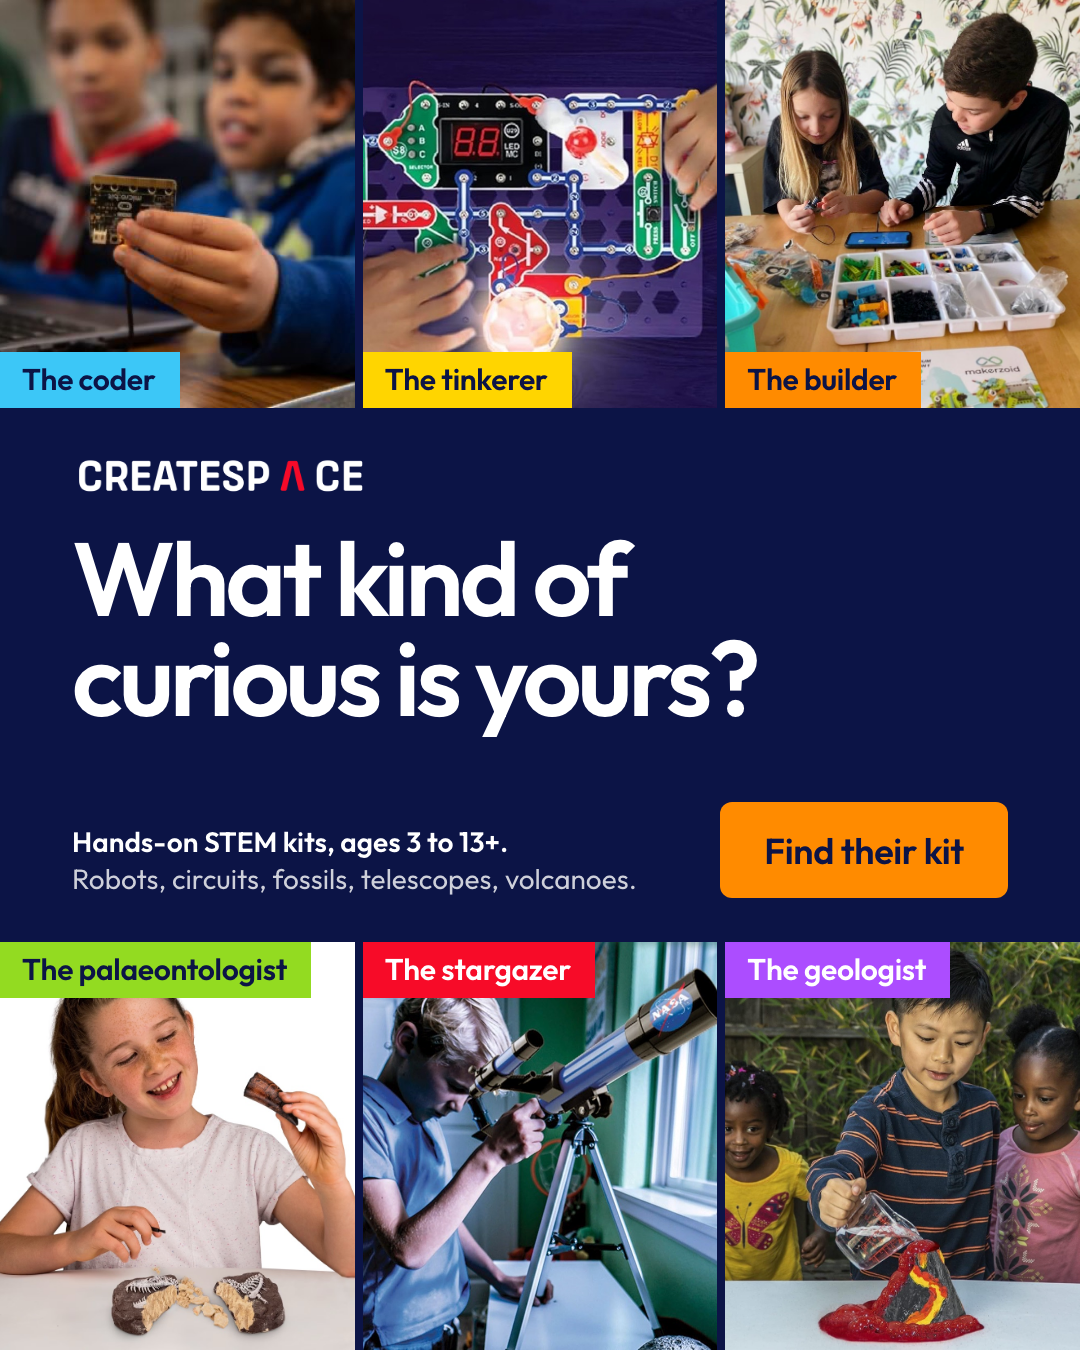
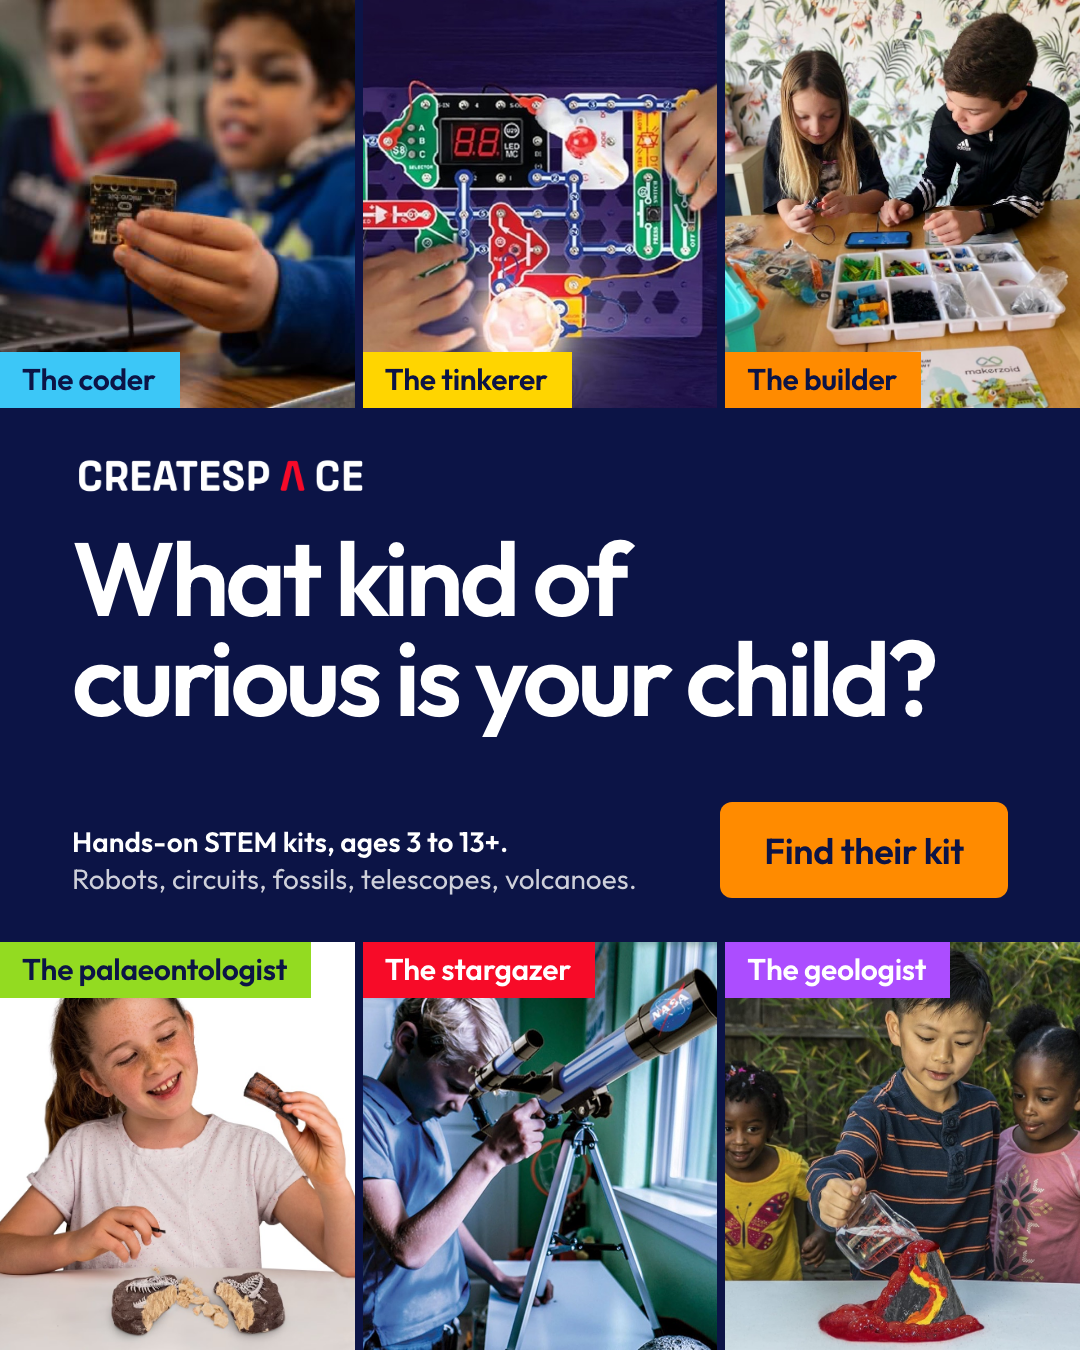
Ad B headline: "What kind of curious is your child?"
Names the child directly instead of "yours", so the question reads
clearly to a parent on first glance. Updates the brief and surface brief
to match and re-renders the export.

Changed region(s): [[0.6111, 0.4667, 0.8861, 0.5289]]

diff --git a/marketing/campaigns/2026-09-stem-range/feed-portrait-curious.html b/marketing/campaigns/2026-09-stem-range/feed-portrait-curious.html
@@ -52,7 +52,7 @@
 </style>
 </head>
 <body>
-<main class="canvas" aria-label="CREATESPACE: what kind of curious is yours?">
+<main class="canvas" aria-label="CREATESPACE: what kind of curious is your child?">
   <div class="strip strip--top">
     <div class="tile">
       <img src="images/coder-boy-microbit.jpg" alt="Boy holding up a micro:bit he coded" style="object-position:62% 50%">
@@ -70,7 +70,7 @@
 
   <section class="band">
     <img class="logo" src="../../creative/kit/logo/logo-on-navy.png" alt="CREATESPACE">
-    <h1>What kind of curious is <em>yours?</em></h1>
+    <h1>What kind of curious is your child?</h1>
     <div class="row">
       <p class="sub"><strong>Hands-on STEM kits, ages 3 to 13+.</strong><br>Robots, circuits, fossils, telescopes, volcanoes.</p>
       <span class="cta">Find their kit</span>

diff --git a/marketing/.impeccable/surfaces/09-stem-range-feed-portrait-curious-html-5e397db1.md b/marketing/.impeccable/surfaces/09-stem-range-feed-portrait-curious-html-5e397db1.md
@@ -23,6 +23,6 @@ Constraints: brand world is marketing/DESIGN.md (navy/white grounds, orange CTA,
 THESIS: Show the range as things a child does, not a catalogue grid. Refuses the default "logo + collage + Shop Now" sale layout of the previous Makerzoid ad.
 OWN-WORLD: Navy #0C1446 and white grounds; each category owns one accent (blue coding, yellow circuits, orange building, green earth, red space, purple chemistry); Outfit 600 display, 400 body; real photos only.
 STORY: A parent sees six concrete activities, recognises their child in one, and taps to shop that kind of kit.
-FIRST VIEWPORT: A (lead) week planner: headline "Robots on Monday. Rockets by Friday." over six day rows with photo, verb, category. B: photo row, navy headline band "What kind of curious is yours?", photo row, each photo tagged with a kid type. C: white specimen board, six product objects with leader-line labels, headline "Pick a science. Any science." Orange CTA bottom on all three.
+FIRST VIEWPORT: A (lead) week planner: headline "Robots on Monday. Rockets by Friday." over six day rows with photo, verb, category. B: photo row, navy headline band "What kind of curious is your child?", photo row, each photo tagged with a kid type. C: white specimen board, six product objects with leader-line labels, headline "Pick a science. Any science." Orange CTA bottom on all three.
 FORM: surface structures 7 (week planner), 2 (kid types), 3 (flat-lay) from a ranked list of seven; seed key 04b5fa16.
 FINISH: unreviewed and undocumented is unfinished; this build ends with the finish review, the verdict, DESIGN.md, and every shipping raster carrying its provenance

diff --git a/marketing/campaigns/2026-09-stem-range/brief.md b/marketing/campaigns/2026-09-stem-range/brief.md
@@ -23,7 +23,7 @@ Three concepts are tested against each other, all at `meta-portrait`:
 | File | Concept | On-image headline |
 |---|---|---|
 | `feed-portrait-week.html` | A week planner, one hands-on activity per day | Robots on Monday. Rockets by Friday. |
-| `feed-portrait-curious.html` | Six kid types the parent recognises their child in | What kind of curious is yours? |
+| `feed-portrait-curious.html` | Six kid types the parent recognises their child in | What kind of curious is your child? |
 | `feed-portrait-specimens.html` | Six real kits laid out with labels | Pick a science. Any science. |
 
 ## What we can say
